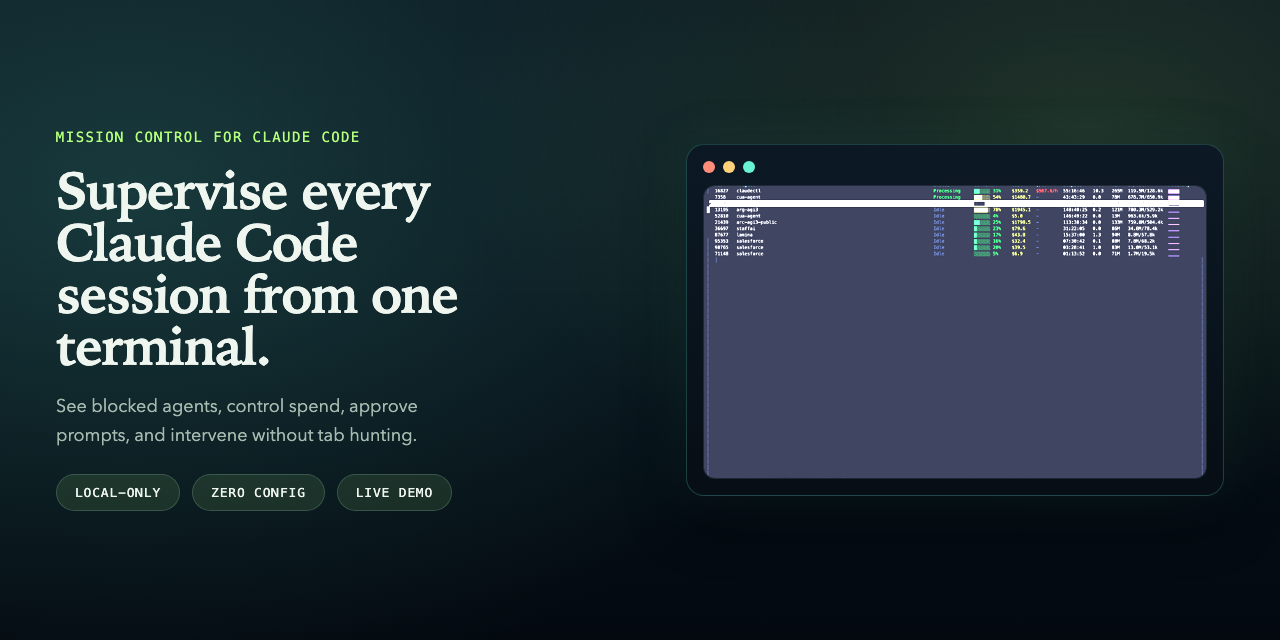
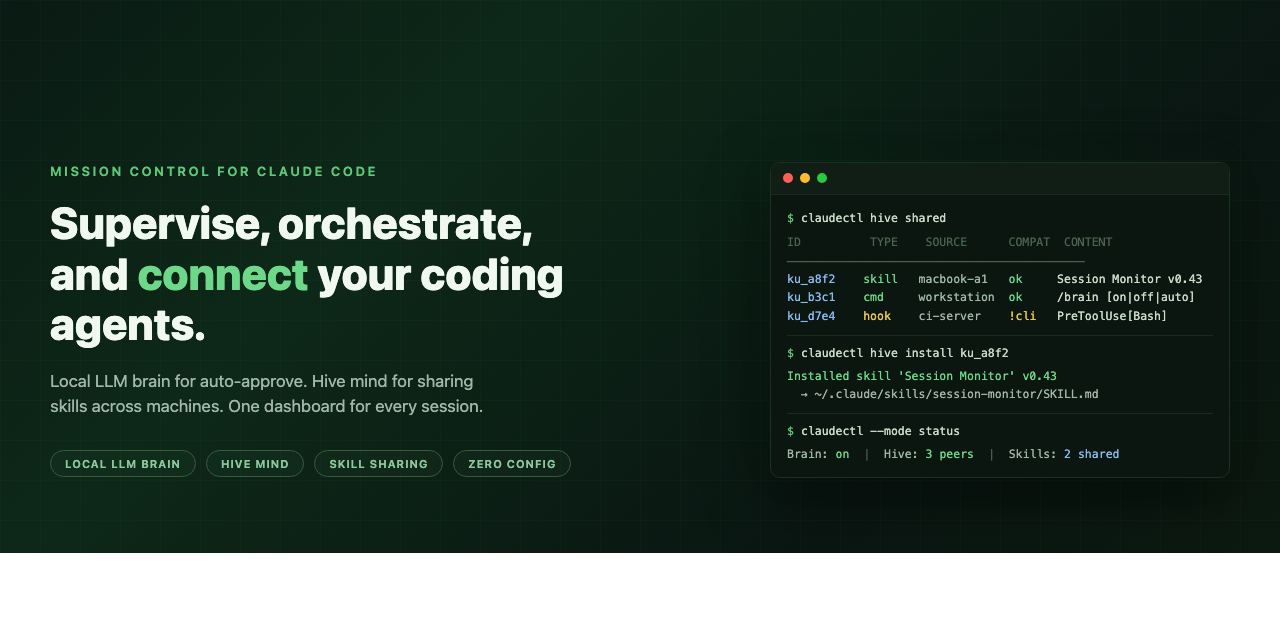
chore: bump to v0.43.0, update social preview and metadata
- Cargo.toml: 0.42.0 → 0.43.0
- plugin.json: sync to 0.43.0, update description and keywords for
  hive mind and skill sharing
- SKILL.md: version 0.31.0 → 0.43.0
- Social preview: new 1280x640 image showing hive shared/install CLI
  instead of old "Supervise every session" dashboard
- mkdocs.yml, index-old.html: update descriptions to reflect brain,
  hive mind, and skill sharing positioning

diff --git a/docs/index-old.html b/docs/index-old.html
@@ -6,12 +6,12 @@
     <title>claudectl | Mission Control for Claude Code</title>
     <meta
       name="description"
-      content="Supervise every Claude Code session from one terminal. See blocked agents, control spend, approve prompts, and coordinate multi-session work without tab hunting."
+      content="Supervise, orchestrate, and connect your coding agents. Local LLM brain for auto-approve, hive mind for sharing skills across machines, one dashboard for every session."
     />
     <meta property="og:title" content="claudectl | Mission Control for Claude Code" />
     <meta
       property="og:description"
-      content="Run multiple Claude Code sessions without tab hunting. Catch blockers, control spend, approve prompts, and intervene from one terminal dashboard."
+      content="Supervise, orchestrate, and connect your coding agents. Local LLM brain, hive mind skill sharing, and one dashboard for every session."
     />
     <meta property="og:type" content="website" />
     <meta property="og:url" content="https://mercurialsolo.github.io/claudectl/" />
@@ -23,7 +23,7 @@
     <meta name="twitter:title" content="claudectl | Mission Control for Claude Code" />
     <meta
       name="twitter:description"
-      content="Supervise every Claude Code session from one terminal."
+      content="Supervise, orchestrate, and connect your coding agents."
     />
     <meta
       name="twitter:image"

diff --git a/claude-plugin/skills/session-monitoring/SKILL.md b/claude-plugin/skills/session-monitoring/SKILL.md
@@ -1,7 +1,7 @@
 ---
 name: Session Monitoring
 description: Provides awareness of claudectl session state, health checks, and cost tracking. Activated when the user asks about session health, spending, brain decisions, or multi-session coordination.
-version: 0.31.0
+version: 0.43.0
 ---
 
 # claudectl Session Monitoring